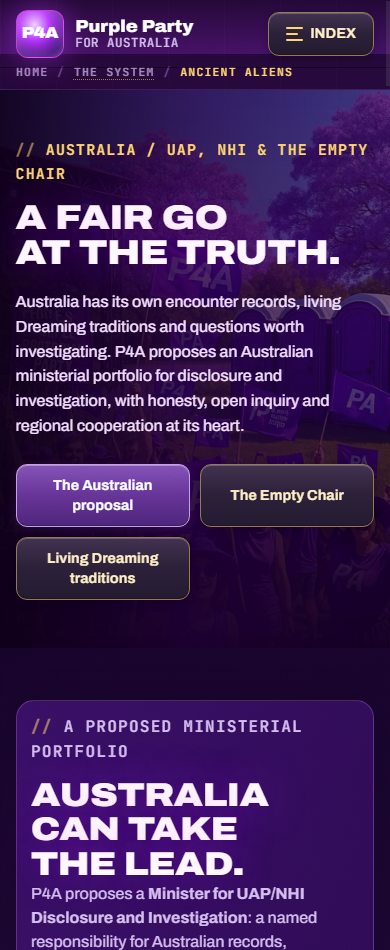
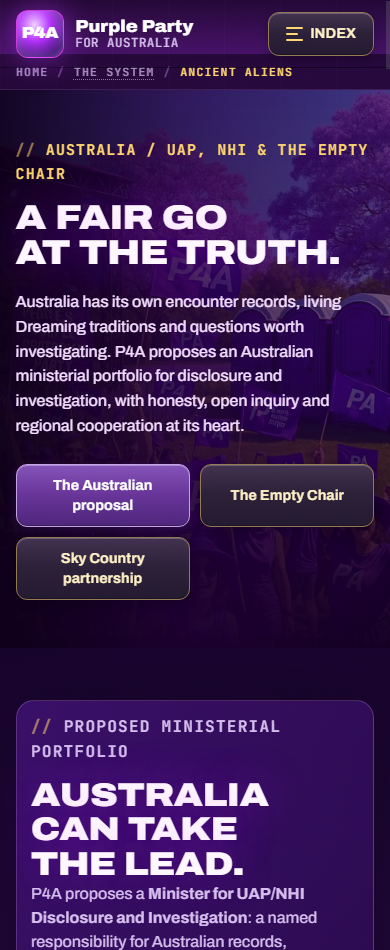
Propose Indigenous-led Sky Country partnership and add defence records

diff --git a/pages/ancient-aliens.html b/pages/ancient-aliens.html
@@ -25,7 +25,7 @@
 </header>
   <main id="main">
 <!-- authored-disclosure-room: canonical source; publish with build-policy-rooms.py -->
-<section class="hero page-hero"><div class="hero-image"><img src="../assets/purple-festival.webp" alt="" fetchpriority="high"></div><div class="hero-content reveal"><p class="eyebrow">Australia / UAP, NHI &amp; the Empty Chair</p><h1>A fair go<br>at the truth.</h1><p class="hero-copy">Australia has its own encounter records, living Dreaming traditions and questions worth investigating. P4A proposes an Australian ministerial portfolio for disclosure and investigation, with honesty, open inquiry and regional cooperation at its heart.</p><div class="hero-actions"><a class="button button-primary" href="#disclosure">The Australian proposal</a><a class="button button-secondary" href="#empty-chair">The Empty Chair</a><a class="button button-secondary" href="#traditions">Living Dreaming traditions</a></div></div></section>
+<section class="hero page-hero"><div class="hero-image"><img src="../assets/purple-festival.webp" alt="" fetchpriority="high"></div><div class="hero-content reveal"><p class="eyebrow">Australia / UAP, NHI &amp; the Empty Chair</p><h1>A fair go<br>at the truth.</h1><p class="hero-copy">Australia has its own encounter records, living Dreaming traditions and questions worth investigating. P4A proposes an Australian ministerial portfolio for disclosure and investigation, with honesty, open inquiry and regional cooperation at its heart.</p><div class="hero-actions"><a class="button button-primary" href="#disclosure">The Australian proposal</a><a class="button button-secondary" href="#empty-chair">The Empty Chair</a><a class="button button-secondary" href="#sky-country-partnership">Sky Country partnership</a></div></div></section>
 <section class="section" id="room"><div class="page-copy reveal">
 <div class="feature-panel" id="disclosure"><p class="eyebrow">Proposed ministerial portfolio</p><h2>Australia can take the lead.</h2><p>P4A proposes a <strong>Minister for UAP/NHI Disclosure and Investigation</strong>: a named responsibility for Australian records, encounters and transparent civilian investigation. The ambition is to do better than the US through honesty and a fair go at transparency, beginning with our own backyard.</p><p><strong>UAP</strong> means unidentified anomalous phenomena; <strong>NHI</strong> means non-human intelligence. <strong>ET</strong> means extra-terrestrial, from beyond Earth. <strong>CT</strong> means crypto-terrestrial: the possibility of an intelligence hidden on or within Earth.</p><div class="clue-grid"><div class="clue"><strong>Australian records</strong><span>The proposed portfolio would bring together the history of reports and government responses, seeking lawful access and release, with plain explanations of what is known, missing or still withheld.</span></div><div class="clue"><strong>Civilian investigation</strong><span>It would support people reporting encounters and independent scientific work across land, air and sea. Original observations, methods, findings and unresolved questions would form the public work, with witness privacy respected.</span></div><div class="clue"><strong>Public accountability</strong><span>A minister could answer parliamentary questions and explain the work, costs and decisions.</span></div></div></div>
 <div class="feature-panel" id="empty-chair"><p class="eyebrow">Our working premise</p><h2>The Empty Chair stays.</h2><p>We act as if crypto-terrestrial and extra-terrestrial observation or interference exists: we are not alone. We make no assumption about who or what they are. Sightings and ancient traditions deserve enough seriousness to leave an empty seat.</p><p>Could an unknown presence be interdimensional? As a thought experiment, crypto-terrestrials might arrive through a portal into a cave or a &ldquo;stargate temple&rdquo;, rather than travel here through space. An emergence there could give the impression of local residence while showing only an arrival point, leaving origin and identity open. What observations could help Australian investigators distinguish those possibilities?</p><p>The practice is for <strong>empathy, black swan preparedness, and existential threat avoidance</strong>. Whose perspective might be missing? Which assumptions could fail? Could a decision cause irreversible harm if we are wrong?</p><p>The chair carries no representative, vote or veto.</p><p><strong>There's no place in this party for belittling people who take UAPs, non-human intelligence or ancient traditions seriously; questions and disagreement are welcome, ridicule isn't.</strong></p><details><summary>The earlier Empty Chair work</summary><p>The earlier <em>What if UAP are Underwater Civilizations</em> scenario introduced the Empty Chair Protocol in section 6.1. The public Cosmic Nexus Extra Chair method asks who is absent but affected.</p><div class="source-links"><a href="https://auraofintelligence.github.io/strange-but-true-cosmic-nexus/governance.html" target="_blank" rel="noopener noreferrer">Public Extra Chair method</a><a href="https://auraofintelligence.github.io/strange-but-true-cosmic-nexus/sources.html" target="_blank" rel="noopener noreferrer">Research source trail</a></div></details></div>
@@ -35,12 +35,14 @@
 <article class="official-link-card"><h3>Tully · 1966</h3><p>The Queensland State Archives police file preserves a <em>Sunday Mail</em> clipping dated 23 January about the reported sighting and the mark in a lagoon. Compare the witness account, the reported physical trace and the later proposed explanations.</p><p><small>Queensland police file 2164M; archive item ITM373641.</small></p><div class="official-link-actions"><a href="https://www.flickr.com/photos/queenslandstatearchives/50704411782" target="_blank" rel="noopener noreferrer">Archived newspaper clipping</a><a href="https://www.archivessearch.qld.gov.au/items/ITM373641" target="_blank" rel="noopener noreferrer">Archive catalogue record</a></div></article>
 <article class="official-link-card"><h3>Westall · 1966</h3><p>The State Library of Victoria brings together contemporary reporting of the 6 April school-area encounter, including the <em>Dandenong Journal</em> of 14 and 21 April. Read the descriptions and drawings beside the questions reporters were asking about the school’s silence.</p><div class="official-link-actions"><a href="https://blogs.slv.vic.gov.au/our-stories/strange-lights-in-the-sky-the-westall-ufo-event-1966/" target="_blank" rel="noopener noreferrer">Library account and newspaper records</a></div></article>
 </div></div><p>A civilian investigation could revisit a case with witnesses who choose to participate, compare the original records and seek a clear account of what happened to the evidence.</p><details><summary>The US comparison, in brief</summary><p>US Navy video releases, congressional hearings and the rolling NARA collection show that official records can become public. Australia can learn from that process while asking its own questions and aiming for a clearer, more honest relationship with the public.</p><div class="source-links"><a href="https://www.archives.gov/research/topics/uaps/rg-615" target="_blank" rel="noopener noreferrer">US records: current NARA collection</a><a href="https://oversight.house.gov/hearing/unidentified-anomalous-phenomena-implications-on-national-security-public-safety-and-government-transparency/" target="_blank" rel="noopener noreferrer">US hearing and testimony, 2023</a></div></details></div>
+<div class="feature-panel" id="defence-records"><p class="eyebrow">Pine Gap / military records</p><h2>What is in the public record?</h2><div class="official-link-grid"><article class="official-link-card"><h3>Pine Gap: the stated role</h3><p>In his parliamentary statement of 22 November 1988, Bob Hawke described Pine Gap as a satellite ground station collecting intelligence for Australia and the US, including arms-control verification. Defence's 9 February 2023 statement describes the joint facilities' intelligence, communications, treaty-monitoring and missile-warning roles, and Australia's policy of full knowledge and concurrence.</p><p>Those are accounts of defence functions. A claim about a UAP encounter or an ET connection at Pine Gap needs its own dated witness account or record to examine. A useful public question is whether a named incident generated a report, which agency holds it and what can be released.</p><div class="official-link-actions"><a href="https://pmtranscripts.pmc.gov.au/release/transcript-7438" target="_blank" rel="noopener noreferrer">Pine Gap statement, 1988</a><a href="https://www.minister.defence.gov.au/statements/2023-02-09/securing-australias-sovereignty" target="_blank" rel="noopener noreferrer">Joint facilities statement, 2023</a></div></article><article class="official-link-card"><h3>Nowra: pilot and radar, 1954</h3><p>The National Archives recounts Navy pilot Lieutenant J. A. O'Farrell's report of two lights near his Sea Fury on 31 August 1954. Its account says Nowra confirmed a radar return and that the pilot's report and radar operator's confirmation are in the record. This is a specific military encounter to revisit alongside the Maralinga report above.</p><p>The Archives also records that the RAAF ceased investigating UFO sightings in 1994. A renewed civilian programme could seek surviving files and compare witness reports, instrument records and the explanations considered at the time.</p><div class="official-link-actions"><a href="https://www.naa.gov.au/blog/flying-saucers-fact-or-fiction" target="_blank" rel="noopener noreferrer">National Archives: Sea Fury and RAAF files</a><a href="#australian-records">Maralinga and other Australian records</a></div></article></div></div>
 <div class="feature-panel" id="traditions"><p class="eyebrow">Country, language and continuing knowledge</p><h2>Dreaming is living knowledge.</h2><p>Australia has many Dreaming and Dreamtime traditions, with names and meanings specific to Country. Knowledge travels through oral histories, song, dance, art, ceremony and relationships between generations.</p><p>Sky ancestors, beings within Country and accounts of creation, change and survival deserve serious attention in their own terms. The following public accounts offer entry points through named knowledge holders and community organisations.</p><div class="official-link-grid">
 <article class="official-link-card" id="rock-art"><h3>Worrorra, Ngarinyin and Wunambal</h3><p>Mowanjum's account places Wandjina within a living culture. Its people continue to practise and pass on knowledge through art making, song and dance; the festival and cultural archive support that work.</p><div class="official-link-actions"><a href="https://mowanjumarts.com/about/culture" target="_blank" rel="noopener noreferrer">Mowanjum's own cultural account</a></div></article>
 <article class="official-link-card"><h3>Yolngu knowledge in practice</h3><p>The Yothu Yindi Foundation describes traditional knowledge carried through <em>manikay</em> (song), <em>bunggul</em> (dance) and <em>miny'tji</em> (art). Garma brings these practices and storytelling together.</p><div class="official-link-actions"><a href="https://yyf.com.au/" target="_blank" rel="noopener noreferrer">Yothu Yindi Foundation</a></div></article>
 <article class="official-link-card"><h3>Sky Country, Trouwerner</h3><p>Aunty Patsy Cameron's <em>Sky Country</em>, illustrated by Lisa Kennedy, shares an ancestral account of two beings descending from the Milky Way to shape the Tasmanian landscape. It is a chosen public sharing through Aboriginal-owned and led Magabala Books.</p><div class="official-link-actions"><a href="https://magabala.com.au/products/sky-country" target="_blank" rel="noopener noreferrer">Sky Country</a><a href="https://www.magabala.com/pages/about-us" target="_blank" rel="noopener noreferrer">Magabala's community control</a></div></article>
 <article class="official-link-card"><h3>Wardaman Lightning Brothers</h3><p>In Bill Yidumduma Harney's public account, the Lightning Brothers connect sky, stars, rain, rock art and the care of Country. His telling brings the image and its continuing meaning together.</p><div class="official-link-actions"><a href="https://www.abc.net.au/news/deeptime/lightning-brothers/" target="_blank" rel="noopener noreferrer">The named knowledge holder's account</a></div></article>
 </div><p>Knowledge holders could choose to contribute to the proposed portfolio, be paid for their work and retain control over what they share and how it is interpreted.</p></div>
+<div class="feature-panel" id="sky-country-partnership"><p class="eyebrow">Proposed Indigenous-led national partnership</p><h2>Sky Country, deep Country, shared inquiry.</h2><p>P4A proposes a comprehensive partnership with Indigenous Australians to catalogue and compare Sky Country and underground or underworld Dreaming accounts that knowledge holders choose to share. The ambition is national: invite participation across Country and language groups, fund local teams and build a connected catalogue from community-held collections.</p><p>Participating Elders, knowledge holders and Indigenous organisations would lead the programme, set its questions and decide how accounts are described. Funding would support paid cultural work, language expertise, recording and community archives. Oral histories, song, dance and art would sit alongside written sources, with links back to the people and places that give them meaning.</p><h3>Keep the account and its permissions together.</h3><p>Each entry could carry its approved attribution, Country and language, original words and reviewed translation, storyteller or source, recording date and story variants. Communities would control storage, access, reuse, corrections and withdrawal. Public browsing would include only material cleared for that purpose; restricted knowledge would remain under its custodians' control.</p><h3>Compare without losing the differences.</h3><p>Knowledge holders could co-design categories such as sky and celestial relationships; underground, cave and water relationships; journeys, arrivals and departures; encounters and responsibilities; seasonal change, warnings and survival. Categories could overlap and use local terms. Each tradition would retain its own account and interpretation, with similarities and differences recorded side by side.</p><p>A comparison could lead to a specific question, an agreed research project or a preparedness exercise. For example: does an approved account suggest a change in water, weather or landscape to investigate? How should a community respond to an unfamiliar encounter? Which people, places or possible presences are missing from an Empty Chair discussion? Participants would decide which comparisons are meaningful and which explanations merit further inquiry.</p><p>The first step would be funded discussions with interested communities to agree governance, benefits and a small set of voluntary pilot collections. Communities could then review the results before widening participation. The AIATSIS research framework offers a starting point for Indigenous leadership and accountability; local agreements would define the work.</p><div class="source-links"><a href="https://aiatsis.gov.au/research/ethical-research/code-ethics" target="_blank" rel="noopener noreferrer">AIATSIS research framework</a><a href="#traditions">Public cultural entry points</a><a href="#empty-chair">Empty Chair considerations</a></div></div>
 <div class="feature-panel" id="regional-cooperation"><p class="eyebrow">Australian responsibility / regional relationships</p><h2>Our region. Shared questions.</h2><p>The proposed remit includes Australian records and encounters across the mainland and external territories, including Christmas Island, the Cocos (Keeling) Islands, Norfolk Island and the Coral Sea Islands. Investigation would work within Australia's lawful jurisdiction and with the agencies and communities already responsible for those places.</p><p>Across <strong>Asia, Oceania and the Indian Ocean</strong>, the proposal is cooperation: willing partners comparing encounter reports, research and safety concerns. Each partner would retain authority over its investigations and records.</p><p><strong>Antarctic interests belong in the remit too.</strong> Australia administers the Australian Antarctic Territory under Australian law, but Antarctic sovereignty claims are not universally recognised. The Antarctic Treaty preserves differing positions on claims and provides for peaceful purposes, scientific investigation and cooperation. Any proposed work there would sit within that framework, alongside the existing Australian Antarctic program and international partners.</p><div class="source-links"><a href="https://www.infrastructure.gov.au/territories-regions-cities/territories" target="_blank" rel="noopener noreferrer">Australian territories and responsibilities</a><a href="https://www.antarctica.gov.au/about-antarctica/australia-in-antarctica/australian-antarctic-territory/" target="_blank" rel="noopener noreferrer">Australian Antarctic Territory</a><a href="https://www.ats.aq/e/antarctictreaty.html" target="_blank" rel="noopener noreferrer">Antarctic Treaty: Articles I-IV</a></div></div>
 <div class="feature-panel"><p class="eyebrow">An invitation to shape the proposal</p><h2>What would make this useful?</h2><p>Which Australian case needs another look? Where did a request for information stall? What would make reporting an encounter safer, or an investigation more trustworthy? People can bring a public record, suggest a research question or challenge the proposed portfolio's scope and cost.</p><p>For a practical start, ask an archive or representative about one named case and keep the reply beside the source. The UAP room provides a place to organise observations and corrections; Cosmic Nexus keeps the wider research and creative exploration open.</p><div class="source-links"><a href="https://www.naa.gov.au/explore-collection" target="_blank" rel="noopener noreferrer">Search Australian archives</a><a href="truth-engine.html#uap-records">UAP observations and corrections</a><a href="https://auraofintelligence.github.io/strange-but-true-cosmic-nexus/atlas.html" target="_blank" rel="noopener noreferrer">Cosmic Nexus research atlas</a><a href="alien-necklace-film.html">Alien Necklace: creative exploration</a></div><p><small>Sources checked 4 October 2026.</small></p></div>
 <div class="next-trail"><a class="button button-secondary" href="twinkle-ancient-aliens.html">Ancient aliens Twinkle</a><a class="button button-secondary" href="twinkle-uap.html">UAP doorway</a><a class="button button-primary" href="twinkle.html#seeds">Explore all topics</a></div>

diff --git a/content/rooms/ancient-aliens.html b/content/rooms/ancient-aliens.html
@@ -25,7 +25,7 @@
 </header>
   <main id="main">
 <!-- authored-disclosure-room: canonical source; publish with build-policy-rooms.py -->
-<section class="hero page-hero"><div class="hero-image"><img src="../assets/purple-festival.webp" alt="" fetchpriority="high"></div><div class="hero-content reveal"><p class="eyebrow">Australia / UAP, NHI &amp; the Empty Chair</p><h1>A fair go<br>at the truth.</h1><p class="hero-copy">Australia has its own encounter records, living Dreaming traditions and questions worth investigating. P4A proposes an Australian ministerial portfolio for disclosure and investigation, with honesty, open inquiry and regional cooperation at its heart.</p><div class="hero-actions"><a class="button button-primary" href="#disclosure">The Australian proposal</a><a class="button button-secondary" href="#empty-chair">The Empty Chair</a><a class="button button-secondary" href="#traditions">Living Dreaming traditions</a></div></div></section>
+<section class="hero page-hero"><div class="hero-image"><img src="../assets/purple-festival.webp" alt="" fetchpriority="high"></div><div class="hero-content reveal"><p class="eyebrow">Australia / UAP, NHI &amp; the Empty Chair</p><h1>A fair go<br>at the truth.</h1><p class="hero-copy">Australia has its own encounter records, living Dreaming traditions and questions worth investigating. P4A proposes an Australian ministerial portfolio for disclosure and investigation, with honesty, open inquiry and regional cooperation at its heart.</p><div class="hero-actions"><a class="button button-primary" href="#disclosure">The Australian proposal</a><a class="button button-secondary" href="#empty-chair">The Empty Chair</a><a class="button button-secondary" href="#sky-country-partnership">Sky Country partnership</a></div></div></section>
 <section class="section" id="room"><div class="page-copy reveal">
 <div class="feature-panel" id="disclosure"><p class="eyebrow">Proposed ministerial portfolio</p><h2>Australia can take the lead.</h2><p>P4A proposes a <strong>Minister for UAP/NHI Disclosure and Investigation</strong>: a named responsibility for Australian records, encounters and transparent civilian investigation. The ambition is to do better than the US through honesty and a fair go at transparency, beginning with our own backyard.</p><p><strong>UAP</strong> means unidentified anomalous phenomena; <strong>NHI</strong> means non-human intelligence. <strong>ET</strong> means extra-terrestrial, from beyond Earth. <strong>CT</strong> means crypto-terrestrial: the possibility of an intelligence hidden on or within Earth.</p><div class="clue-grid"><div class="clue"><strong>Australian records</strong><span>The proposed portfolio would bring together the history of reports and government responses, seeking lawful access and release, with plain explanations of what is known, missing or still withheld.</span></div><div class="clue"><strong>Civilian investigation</strong><span>It would support people reporting encounters and independent scientific work across land, air and sea. Original observations, methods, findings and unresolved questions would form the public work, with witness privacy respected.</span></div><div class="clue"><strong>Public accountability</strong><span>A minister could answer parliamentary questions and explain the work, costs and decisions.</span></div></div></div>
 <div class="feature-panel" id="empty-chair"><p class="eyebrow">Our working premise</p><h2>The Empty Chair stays.</h2><p>We act as if crypto-terrestrial and extra-terrestrial observation or interference exists: we are not alone. We make no assumption about who or what they are. Sightings and ancient traditions deserve enough seriousness to leave an empty seat.</p><p>Could an unknown presence be interdimensional? As a thought experiment, crypto-terrestrials might arrive through a portal into a cave or a &ldquo;stargate temple&rdquo;, rather than travel here through space. An emergence there could give the impression of local residence while showing only an arrival point, leaving origin and identity open. What observations could help Australian investigators distinguish those possibilities?</p><p>The practice is for <strong>empathy, black swan preparedness, and existential threat avoidance</strong>. Whose perspective might be missing? Which assumptions could fail? Could a decision cause irreversible harm if we are wrong?</p><p>The chair carries no representative, vote or veto.</p><p><strong>There's no place in this party for belittling people who take UAPs, non-human intelligence or ancient traditions seriously; questions and disagreement are welcome, ridicule isn't.</strong></p><details><summary>The earlier Empty Chair work</summary><p>The earlier <em>What if UAP are Underwater Civilizations</em> scenario introduced the Empty Chair Protocol in section 6.1. The public Cosmic Nexus Extra Chair method asks who is absent but affected.</p><div class="source-links"><a href="https://auraofintelligence.github.io/strange-but-true-cosmic-nexus/governance.html">Public Extra Chair method</a><a href="https://auraofintelligence.github.io/strange-but-true-cosmic-nexus/sources.html">Research source trail</a></div></details></div>
@@ -35,12 +35,14 @@
 <article class="official-link-card"><h3>Tully · 1966</h3><p>The Queensland State Archives police file preserves a <em>Sunday Mail</em> clipping dated 23 January about the reported sighting and the mark in a lagoon. Compare the witness account, the reported physical trace and the later proposed explanations.</p><p><small>Queensland police file 2164M; archive item ITM373641.</small></p><div class="official-link-actions"><a href="https://www.flickr.com/photos/queenslandstatearchives/50704411782">Archived newspaper clipping</a><a href="https://www.archivessearch.qld.gov.au/items/ITM373641">Archive catalogue record</a></div></article>
 <article class="official-link-card"><h3>Westall · 1966</h3><p>The State Library of Victoria brings together contemporary reporting of the 6 April school-area encounter, including the <em>Dandenong Journal</em> of 14 and 21 April. Read the descriptions and drawings beside the questions reporters were asking about the school’s silence.</p><div class="official-link-actions"><a href="https://blogs.slv.vic.gov.au/our-stories/strange-lights-in-the-sky-the-westall-ufo-event-1966/">Library account and newspaper records</a></div></article>
 </div></div><p>A civilian investigation could revisit a case with witnesses who choose to participate, compare the original records and seek a clear account of what happened to the evidence.</p><details><summary>The US comparison, in brief</summary><p>US Navy video releases, congressional hearings and the rolling NARA collection show that official records can become public. Australia can learn from that process while asking its own questions and aiming for a clearer, more honest relationship with the public.</p><div class="source-links"><a href="https://www.archives.gov/research/topics/uaps/rg-615">US records: current NARA collection</a><a href="https://oversight.house.gov/hearing/unidentified-anomalous-phenomena-implications-on-national-security-public-safety-and-government-transparency/">US hearing and testimony, 2023</a></div></details></div>
+<div class="feature-panel" id="defence-records"><p class="eyebrow">Pine Gap / military records</p><h2>What is in the public record?</h2><div class="official-link-grid"><article class="official-link-card"><h3>Pine Gap: the stated role</h3><p>In his parliamentary statement of 22 November 1988, Bob Hawke described Pine Gap as a satellite ground station collecting intelligence for Australia and the US, including arms-control verification. Defence's 9 February 2023 statement describes the joint facilities' intelligence, communications, treaty-monitoring and missile-warning roles, and Australia's policy of full knowledge and concurrence.</p><p>Those are accounts of defence functions. A claim about a UAP encounter or an ET connection at Pine Gap needs its own dated witness account or record to examine. A useful public question is whether a named incident generated a report, which agency holds it and what can be released.</p><div class="official-link-actions"><a href="https://pmtranscripts.pmc.gov.au/release/transcript-7438">Pine Gap statement, 1988</a><a href="https://www.minister.defence.gov.au/statements/2023-02-09/securing-australias-sovereignty">Joint facilities statement, 2023</a></div></article><article class="official-link-card"><h3>Nowra: pilot and radar, 1954</h3><p>The National Archives recounts Navy pilot Lieutenant J. A. O'Farrell's report of two lights near his Sea Fury on 31 August 1954. Its account says Nowra confirmed a radar return and that the pilot's report and radar operator's confirmation are in the record. This is a specific military encounter to revisit alongside the Maralinga report above.</p><p>The Archives also records that the RAAF ceased investigating UFO sightings in 1994. A renewed civilian programme could seek surviving files and compare witness reports, instrument records and the explanations considered at the time.</p><div class="official-link-actions"><a href="https://www.naa.gov.au/blog/flying-saucers-fact-or-fiction">National Archives: Sea Fury and RAAF files</a><a href="#australian-records">Maralinga and other Australian records</a></div></article></div></div>
 <div class="feature-panel" id="traditions"><p class="eyebrow">Country, language and continuing knowledge</p><h2>Dreaming is living knowledge.</h2><p>Australia has many Dreaming and Dreamtime traditions, with names and meanings specific to Country. Knowledge travels through oral histories, song, dance, art, ceremony and relationships between generations.</p><p>Sky ancestors, beings within Country and accounts of creation, change and survival deserve serious attention in their own terms. The following public accounts offer entry points through named knowledge holders and community organisations.</p><div class="official-link-grid">
 <article class="official-link-card" id="rock-art"><h3>Worrorra, Ngarinyin and Wunambal</h3><p>Mowanjum's account places Wandjina within a living culture. Its people continue to practise and pass on knowledge through art making, song and dance; the festival and cultural archive support that work.</p><div class="official-link-actions"><a href="https://mowanjumarts.com/about/culture">Mowanjum's own cultural account</a></div></article>
 <article class="official-link-card"><h3>Yolngu knowledge in practice</h3><p>The Yothu Yindi Foundation describes traditional knowledge carried through <em>manikay</em> (song), <em>bunggul</em> (dance) and <em>miny'tji</em> (art). Garma brings these practices and storytelling together.</p><div class="official-link-actions"><a href="https://yyf.com.au/">Yothu Yindi Foundation</a></div></article>
 <article class="official-link-card"><h3>Sky Country, Trouwerner</h3><p>Aunty Patsy Cameron's <em>Sky Country</em>, illustrated by Lisa Kennedy, shares an ancestral account of two beings descending from the Milky Way to shape the Tasmanian landscape. It is a chosen public sharing through Aboriginal-owned and led Magabala Books.</p><div class="official-link-actions"><a href="https://magabala.com.au/products/sky-country">Sky Country</a><a href="https://www.magabala.com/pages/about-us">Magabala's community control</a></div></article>
 <article class="official-link-card"><h3>Wardaman Lightning Brothers</h3><p>In Bill Yidumduma Harney's public account, the Lightning Brothers connect sky, stars, rain, rock art and the care of Country. His telling brings the image and its continuing meaning together.</p><div class="official-link-actions"><a href="https://www.abc.net.au/news/deeptime/lightning-brothers/">The named knowledge holder's account</a></div></article>
 </div><p>Knowledge holders could choose to contribute to the proposed portfolio, be paid for their work and retain control over what they share and how it is interpreted.</p></div>
+<div class="feature-panel" id="sky-country-partnership"><p class="eyebrow">Proposed Indigenous-led national partnership</p><h2>Sky Country, deep Country, shared inquiry.</h2><p>P4A proposes a comprehensive partnership with Indigenous Australians to catalogue and compare Sky Country and underground or underworld Dreaming accounts that knowledge holders choose to share. The ambition is national: invite participation across Country and language groups, fund local teams and build a connected catalogue from community-held collections.</p><p>Participating Elders, knowledge holders and Indigenous organisations would lead the programme, set its questions and decide how accounts are described. Funding would support paid cultural work, language expertise, recording and community archives. Oral histories, song, dance and art would sit alongside written sources, with links back to the people and places that give them meaning.</p><h3>Keep the account and its permissions together.</h3><p>Each entry could carry its approved attribution, Country and language, original words and reviewed translation, storyteller or source, recording date and story variants. Communities would control storage, access, reuse, corrections and withdrawal. Public browsing would include only material cleared for that purpose; restricted knowledge would remain under its custodians' control.</p><h3>Compare without losing the differences.</h3><p>Knowledge holders could co-design categories such as sky and celestial relationships; underground, cave and water relationships; journeys, arrivals and departures; encounters and responsibilities; seasonal change, warnings and survival. Categories could overlap and use local terms. Each tradition would retain its own account and interpretation, with similarities and differences recorded side by side.</p><p>A comparison could lead to a specific question, an agreed research project or a preparedness exercise. For example: does an approved account suggest a change in water, weather or landscape to investigate? How should a community respond to an unfamiliar encounter? Which people, places or possible presences are missing from an Empty Chair discussion? Participants would decide which comparisons are meaningful and which explanations merit further inquiry.</p><p>The first step would be funded discussions with interested communities to agree governance, benefits and a small set of voluntary pilot collections. Communities could then review the results before widening participation. The AIATSIS research framework offers a starting point for Indigenous leadership and accountability; local agreements would define the work.</p><div class="source-links"><a href="https://aiatsis.gov.au/research/ethical-research/code-ethics">AIATSIS research framework</a><a href="#traditions">Public cultural entry points</a><a href="#empty-chair">Empty Chair considerations</a></div></div>
 <div class="feature-panel" id="regional-cooperation"><p class="eyebrow">Australian responsibility / regional relationships</p><h2>Our region. Shared questions.</h2><p>The proposed remit includes Australian records and encounters across the mainland and external territories, including Christmas Island, the Cocos (Keeling) Islands, Norfolk Island and the Coral Sea Islands. Investigation would work within Australia's lawful jurisdiction and with the agencies and communities already responsible for those places.</p><p>Across <strong>Asia, Oceania and the Indian Ocean</strong>, the proposal is cooperation: willing partners comparing encounter reports, research and safety concerns. Each partner would retain authority over its investigations and records.</p><p><strong>Antarctic interests belong in the remit too.</strong> Australia administers the Australian Antarctic Territory under Australian law, but Antarctic sovereignty claims are not universally recognised. The Antarctic Treaty preserves differing positions on claims and provides for peaceful purposes, scientific investigation and cooperation. Any proposed work there would sit within that framework, alongside the existing Australian Antarctic program and international partners.</p><div class="source-links"><a href="https://www.infrastructure.gov.au/territories-regions-cities/territories">Australian territories and responsibilities</a><a href="https://www.antarctica.gov.au/about-antarctica/australia-in-antarctica/australian-antarctic-territory/">Australian Antarctic Territory</a><a href="https://www.ats.aq/e/antarctictreaty.html">Antarctic Treaty: Articles I-IV</a></div></div>
 <div class="feature-panel"><p class="eyebrow">An invitation to shape the proposal</p><h2>What would make this useful?</h2><p>Which Australian case needs another look? Where did a request for information stall? What would make reporting an encounter safer, or an investigation more trustworthy? People can bring a public record, suggest a research question or challenge the proposed portfolio's scope and cost.</p><p>For a practical start, ask an archive or representative about one named case and keep the reply beside the source. The UAP room provides a place to organise observations and corrections; Cosmic Nexus keeps the wider research and creative exploration open.</p><div class="source-links"><a href="https://www.naa.gov.au/explore-collection">Search Australian archives</a><a href="truth-engine.html#uap-records">UAP observations and corrections</a><a href="https://auraofintelligence.github.io/strange-but-true-cosmic-nexus/atlas.html">Cosmic Nexus research atlas</a><a href="alien-necklace-film.html">Alien Necklace: creative exploration</a></div><p><small>Sources checked 4 October 2026.</small></p></div>
 <div class="next-trail"><a class="button button-secondary" href="twinkle-ancient-aliens.html">Ancient aliens Twinkle</a><a class="button button-secondary" href="twinkle-uap.html">UAP doorway</a><a class="button button-primary" href="twinkle.html#seeds">Explore all topics</a></div>

diff --git a/tools/publication-qa/australian-uap-room-qa.py b/tools/publication-qa/australian-uap-room-qa.py
@@ -14,7 +14,7 @@ for a in s.select('a[href]'):
   assert dst.exists(),a['href']
   if u.fragment:assert BeautifulSoup(dst.read_text(encoding='utf-8'),'html.parser').find(id=unquote(u.fragment)),a['href']
  count+=1
-for anchor in ['room','empty-chair','records','australian-records','traditions','rock-art','disclosure','regional-cooperation']:assert s.find(id=anchor)
+for anchor in ['room','empty-chair','records','australian-records','traditions','rock-art','disclosure','regional-cooperation','sky-country-partnership','defence-records']:assert s.find(id=anchor)
 for term in ['empathy, black swan preparedness, and existential threat avoidance','Minister for UAP/NHI Disclosure and Investigation','Asia, Oceania and the Indian Ocean','unidentified anomalous phenomena','non-human intelligence','extra-terrestrial','crypto-terrestrial','song, dance','oral histories']:assert term in s.get_text(' ',strip=True),term
 assert 'What should disclosure require?' not in t
 assert len(s.select('#traditions .official-link-card'))==4
@@ -23,11 +23,18 @@ before=hashlib.sha256(p.read_bytes()).hexdigest();subprocess.run([sys.executable
 for f in ['tools/build-policy-rooms.py','tools/public_copy.py']:py_compile.compile(str(R/f),doraise=True)
 assert not subprocess.check_output(['git','diff','--','styles.css','content/home-ticker.json','assets/homepage-ticker.css','assets/homepage-ticker.js','pages/twinkle-ancient-aliens.html','content/twinkle-reviewed-copy.json'],cwd=R)
 report={'checked':'2026-10-04','canonicalSource':'content/rooms/ancient-aliens.html','linkAndAnchorChecks':count,'allExistingSectionAnchorsPreserved':True,'idempotentRebuild':True,'exactEmptyChairPurposesPreserved':True,'AustraliaFirst':{'AustralianRecordCards':4,'AustralianCulturalCards':4,'USComparison':'one collapsed detail, two source links','foreignTraditionCatalogueRemoved':True,'proposedPortfolioNotExistingAuthority':True,'regionalCooperationNotJurisdictionOverNeighbours':True,'AntarcticTreatyContext':'Articles I-IV: peaceful purposes, scientific cooperation and preserved sovereignty positions'},'sourcesRead':[{'url':'https://www.ats.aq/e/antarctictreaty.html','finding':'Official Treaty Secretariat: peaceful use, scientific investigation/cooperation, some states do not recognise claims, Article IV preserves positions.'},{'url':'https://www.antarctica.gov.au/about-antarctica/australia-in-antarctica/australian-antarctic-territory/','finding':'Australian Antarctic Division: AAT administration and legislation; read alongside Treaty Secretariat.'},{'url':'https://www.infrastructure.gov.au/territories-regions-cities/territories','finding':'Australian Government territory responsibilities, including Indian Ocean territories, Norfolk, Coral Sea and AAT reference.'},{'url':'https://yyf.com.au/','finding':'Yolngu-led foundation describes manikay, bunggul, miny\u2019tji and storytelling; no alien interpretation attributed to it.'},{'url':'https://mowanjumarts.com/about/culture','finding':'Three named communities maintaining Wandjina knowledge through art, song and dance.'},{'url':'https://www.magabala.com/pages/about-us','finding':'Aboriginal owned and led, community-controlled publisher; controlled public sharing.'}],'priorVerifiedSourcesRetained':['Trove Port Augusta 1947','NAA Wewak/Maralinga July 1960','QSA Tully 1966','SLV Westall 1966','Patsy Cameron Sky Country','Bill Yidumduma Harney Wardaman account','NARA current UAP collection','2023 US House hearing','Cosmic Nexus governance and source index'],'culturalMaterial':'Links and short attributed paraphrases only; no art reproduction, restricted knowledge or exhaustive-catalogue claim.'}
+report['sourcesRead'].extend([
+ {'url':'https://aiatsis.gov.au/research/ethical-research/code-ethics','finding':'AIATSIS Indigenous research framework: leadership, self-determination, value and accountability; proposed programme details remain P4A proposals.'},
+ {'url':'https://pmtranscripts.pmc.gov.au/release/transcript-7438','finding':'Hawke parliamentary statement 22 November 1988 identifies Pine Gap satellite ground station and intelligence role.'},
+ {'url':'https://www.minister.defence.gov.au/statements/2023-02-09/securing-australias-sovereignty','finding':'9 February 2023 statement describes joint facilities and full knowledge and concurrence; no ET finding.'},
+ {'url':'https://www.naa.gov.au/blog/flying-saucers-fact-or-fiction','finding':'NAA account of Navy pilot O’Farrell, 31 August 1954, recorded radar confirmation; RAAF UFO investigations ceased 1994.'}
+])
+report['proposedPartnership']='National voluntary Indigenous-led participation, paid local teams, community-held collections, approved attribution and translations, variants, permissions and withdrawal; co-designed categories lead to inquiry and preparedness.'
 sys.path.insert(0,str(R/'tools/vic-qa'));from cdp_client import CDP
 c=CDP();c.call('Page.enable');c.call('Runtime.enable');runs=[];shots=R/'tools/publication-qa/australian-uap-screenshots';shots.mkdir(exist_ok=True)
 for w in [1440,390]:
  c.call('Emulation.setDeviceMetricsOverride',{'width':w,'height':950,'deviceScaleFactor':1,'mobile':w<500});c.evaluate('window.__oldAU=true');c.call('Page.navigate',{'url':'http://127.0.0.1:8765/pages/ancient-aliens.html'});c.wait("!window.__oldAU&&document.readyState==='complete'&&!!document.querySelector('.footer-index')");c.evaluate("document.documentElement.style.scrollBehavior='auto';document.querySelectorAll('.reveal').forEach(e=>e.classList.add('is-visible','visible'))")
- for anchor in ['main','disclosure','empty-chair','records','traditions','regional-cooperation']:
+ for anchor in ['main','disclosure','empty-chair','records','traditions','sky-country-partnership','defence-records','regional-cooperation']:
   c.evaluate('document.querySelector('+json.dumps('#'+anchor)+').scrollIntoView({block:"start",behavior:"instant"});window.scrollBy(0,-90)');c.evaluate('new Promise(r=>setTimeout(r,200))')
   result=c.evaluate("(()=>{let r=[...document.querySelectorAll('.button,.source-links a,.official-link-actions a')].filter(e=>e.getBoundingClientRect().width);return {overflow:document.documentElement.scrollWidth>innerWidth+2,clippedActions:r.filter(e=>e.scrollWidth>e.clientWidth+2).map(e=>e.textContent.trim())}})()")
   assert not result['overflow'] and not result['clippedActions'],[w,anchor,result]
